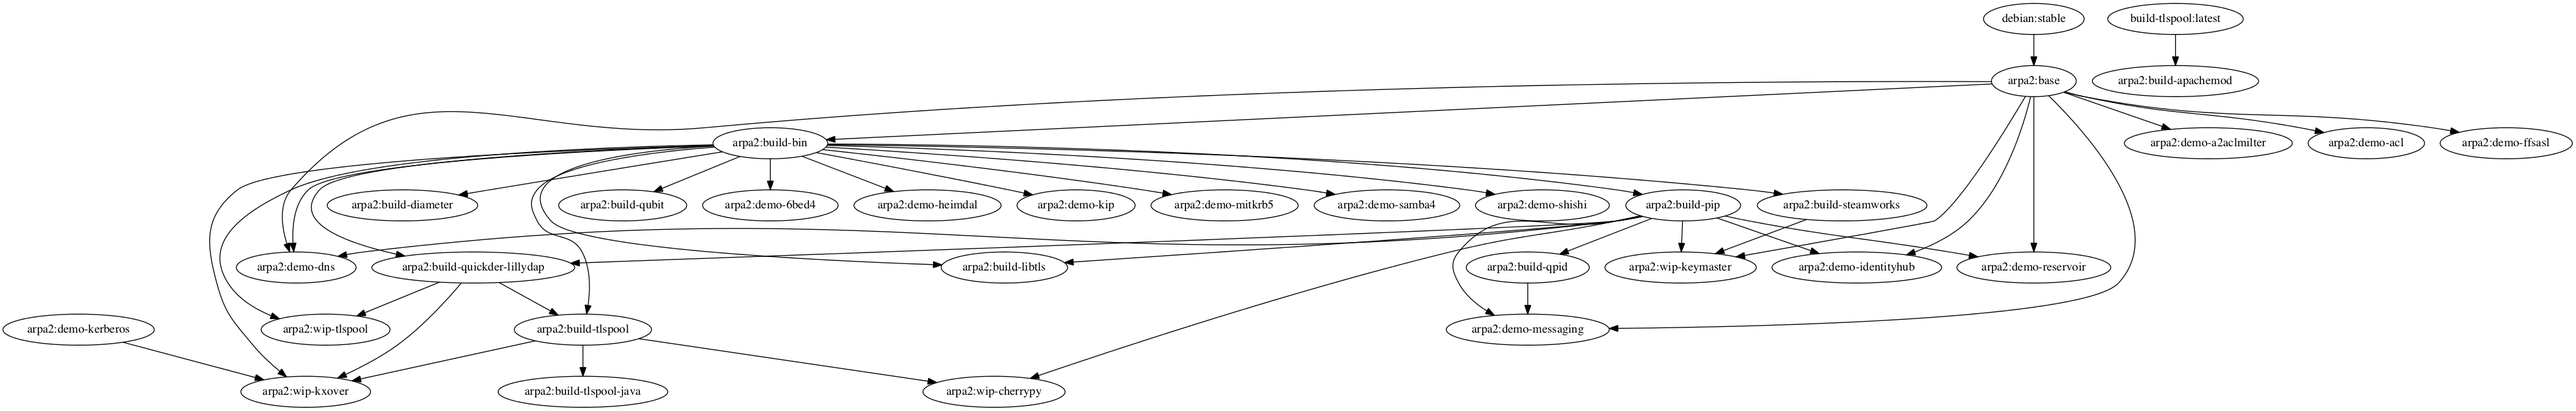
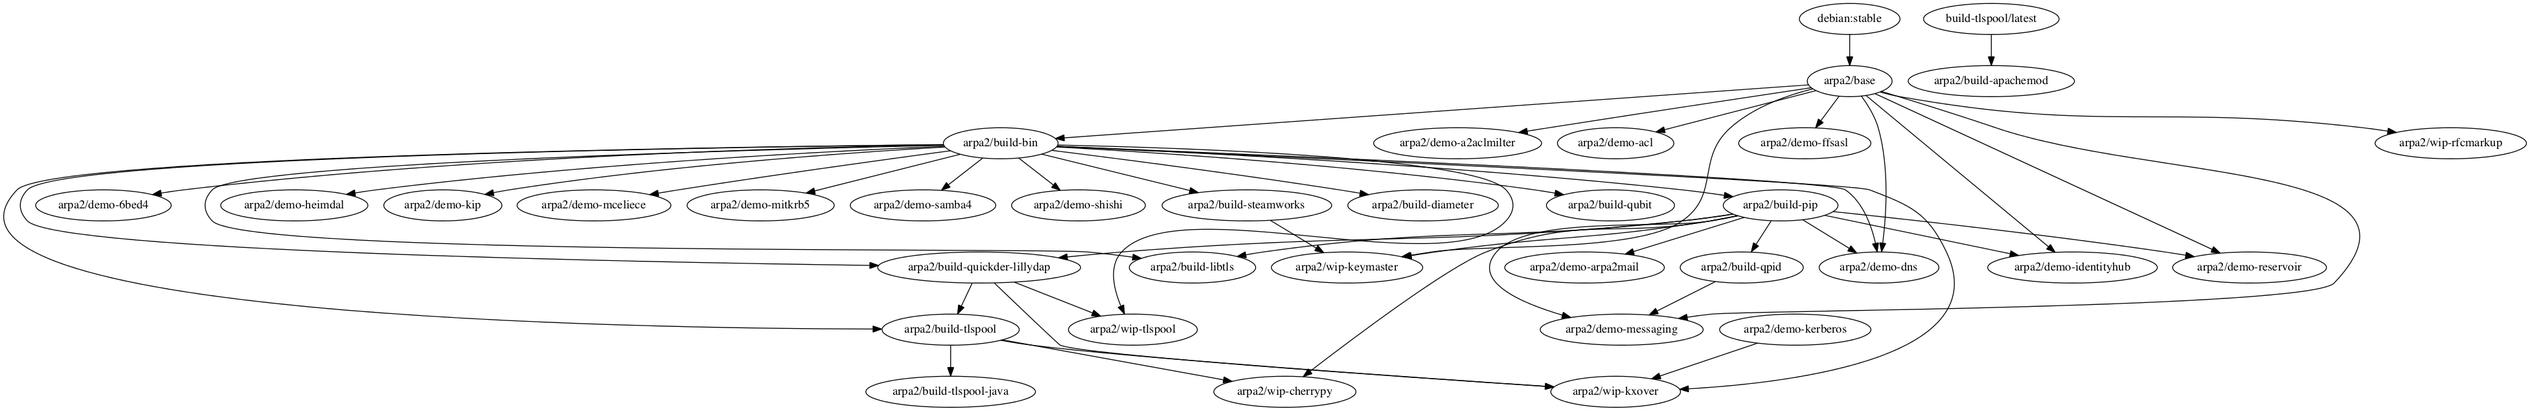
build-bin updated for Docker Hub

diff --git a/base/README.md b/base/README.md
@@ -1,4 +1,4 @@
-# Docker Image arpa2:base
+# Docker Image arpa2/base
 
 > *This is the basic image that we shall use for most
 > or all of the ARPA2 distribution images.*
@@ -30,17 +30,17 @@ The hash code identifies what has just been built.  You can also find it with:
 
 Oops &mdash; forgot to give it a name.  Let's rebuild (and see how these hashes allow for reuse):
 
-    docker build docker-arpa2-base -t arpa2:base
+    docker build docker-arpa2-base -t arpa2/base
 
 If you list the images once more, you will find that the `<none>` entries have been replaced with `arpa2` and `base`.
 
 Docker keeps those hashed images by default, but you can use `docker image rm` or `docker image prune` to cleanup.
 
-## Running Commands in arpa2:base
+## Running Commands in arpa2/base
 
-The `Dockerfile` in `arpa2:base` has a shell as its default command, so you can simply run it (with an interactive terminal) to enter commands:
+The `Dockerfile` in `arpa2/base` has a shell as its default command, so you can simply run it (with an interactive terminal) to enter commands:
 
-    shell$ docker run -it arpa2:base
+    shell$ docker run -it arpa2/base
     root@02fc270bb848:/# hostname
     02fc270bb848
     root@02fc270bb848:/# exit
@@ -50,7 +50,7 @@ Note how the hex code (in fact the hostname) is not the same as the image hash. 
 
 Until you run `exit`, you can view the container in another shell on the host, using `docker container ls`.  Once you quit, the container will be removed.
 
-You can make local changes, for instance to install extra software.  These changes will not end up in the original `arpa2:base` image, but instead in a temporary image layered on top of it.  Try it!
+You can make local changes, for instance to install extra software.  These changes will not end up in the original `arpa2/base` image, but instead in a temporary image layered on top of it.  Try it!
 
 ## Minimal Core OS
 
@@ -79,7 +79,7 @@ Note that it does not make complete sense, but fix it if you can!
 
 ## Support for ARPA2 Shells
 
-There is a generic `arpa2shell` command, which looks through the Python system for modules named `arpa2xxx` that inherit `arpa2cmd.Cmd` into a module-specific `Cmd` class.  These classes are instantiated as sub-shells, into which `arpa2shell` can drop in.  No sub-shells have been included in this release, but images built on top of `arpa2:base` can.  In that case, they can all be addressed from `arpa2shell`.
+There is a generic `arpa2shell` command, which looks through the Python system for modules named `arpa2xxx` that inherit `arpa2cmd.Cmd` into a module-specific `Cmd` class.  These classes are instantiated as sub-shells, into which `arpa2shell` can drop in.  No sub-shells have been included in this release, but images built on top of `arpa2/base` can.  In that case, they can all be addressed from `arpa2shell`.
 
 ## Connecting to a Containers
 
@@ -87,13 +87,13 @@ Not all containers are interactive on a terminal.  They may as well run a comman
 
 Another facility that is useful during deployment, is the ability to mount a file system layer with data into the container's filesystem.  For applications such as a web server, this facilitates dynamic data and limits rebuilds of images to code changes.
 
-## Adding layers atop arpa2:base
+## Adding layers atop arpa2/base
 
-To develop additional layers on top of `arpa2:base`, you can run a container for `arpa2:base` and enter any commands that you think are needed.  Keep note of them in a new
+To develop additional layers on top of `arpa2/base`, you can run a container for `arpa2/base` and enter any commands that you think are needed.  Keep note of them in a new
 [Dockerfile](https://docs.docker.com/engine/userguide/eng-image/dockerfile_best-practices/),
 that adheres to the following pattern:
 
-    FROM arpa2:base
+    FROM arpa2/base
     
     RUN apt-get update && apt-get -y upgrade
     

diff --git a/DOCKER-HUB.MD b/DOCKER-HUB.MD
@@ -1,0 +1,24 @@
+# Automated Builds on Docker Hub
+
+To build these demo's automatically with Docker Hub, we can do the following:
+
+ 1. Login to the [Docker Hub](https://hub.docker.com)
+ 2. (We'll assume you're a member of the ARPA2 team, otherwise ask)
+ 3. Click `Repositories` in the top bar, and the `arpa2` project
+ 4. Click `Create Repository` on the right side
+ 5. Enter, for `arpa2`, a name such as `build-pip` and a brief description
+ 6. Make it publicly visible
+ 7. For Build Settings, connect to GitHub
+ 8. For the project connection, select `arpa2` and `docker-demo`
+ 9. Customise, possibly by entering and editing later so that:
+     - Tag with Source `/^build-pip-latest$/` receives Docker Tag `latest` for Dockerfile `/demo-pip/Dockerfile` or actually just `Dockerfile` relative to `/demo-pip` but that doesn't show up initially.
+     - Tag with Source `/^build-pip-([0-9.]+)$/` receives Docker Tag `{\1}` for Dockerfile `/demo-pip/Dockerfile` or actually just `Dockerfile` relative to `/demo-pip` but that doesn't show up initially.
+10. Click `Create` on the bottom, go to the top for `Builds` and right side for `Configure Automatic Builds` and split the Dockerfile Location `/demo-pip/Dockerfile` into `Dockerfile` and Build Context `/demo-pip` which is the reference for files named in the Dockerfile.  This is not possible in the first go, or so it seems.
+11. Now close with `Save and Build`
+
+After this, we can go to the repository, and test build the example `build-bin`.  When satisfied, we can notify Docker Hub with tags:
+
+```
+docker tag --force build-bin-latest
+docker push --tags --force
+```

diff --git a/demo-identityhub/README.MD b/demo-identityhub/README.MD
@@ -1,4 +1,4 @@
-# README for Docker Image arpa2:identityhub
+# README for Docker Image arpa2/identityhub
 
 > *This is a simple, initial version of the IdentityHub
 > as designed in the InternetWide.org project, and implemented
@@ -42,7 +42,7 @@ at the same level as the `Dockerprep.sh` file.  We do this
 to avoid adding `pip` and its many, many dependencies to
 the runtime.
 
-To build this image on top of the `arpa2:base` image:
+To build this image on top of the `arpa2/base` image:
 
 ```
 docker build -t idhub <THIS-DIRECTORY>
@@ -165,8 +165,8 @@ To update this image, please build it with the public tag and
 push it:
 
 ```
-docker tag idhub arpa2:identityhub
-docker push arpa2:identityhub
+docker tag idhub arpa2/identityhub
+docker push arpa2/identityhub
 ```
 
 Cleaning up is easy in docker, but also necessary because of
@@ -181,8 +181,8 @@ docker image     prune
 
 Apropos [build confusion and small images!](https://docs.docker.com/develop/develop-images/multistage-build/#use-multi-stage-builds) The people over at Docker understood the problem, as one would expect:
 
-  * We can start off building `FROM arpa2:base AS idhub-dev` to collect build image stuff
-  * We restart in the same `Dockerfile` with the target, `FROM arpa2:base AS idhub`
+  * We can start off building `FROM arpa2/base AS idhub-dev` to collect build image stuff
+  * We restart in the same `Dockerfile` with the target, `FROM arpa2/base AS idhub`
   * We can then `COPY --from=idhub-dev /path/in/dev/stage /target/image/location`
 
 A prior phase using `pip` seems the perfect solution then.  It would install a lot of

diff --git a/demo-reservoir/README.MD b/demo-reservoir/README.MD
@@ -1,4 +1,4 @@
-# README for Docker Image arpa2:reservoir
+# README for Docker Image arpa2/reservoir
 
 > *This is a simple, initial version of the ARPA2 Reservoir
 > as designed in the InternetWide.org project, and implemented
@@ -39,7 +39,7 @@ There are many things open for tinkering:
 
 ## Deploy the Image
 
-To build this image on top of the `arpa2:base` image:
+To build this image on top of the `arpa2/base` image:
 
 ```
 docker build -t rv <THIS-DIRECTORY>
@@ -241,8 +241,8 @@ To update this image, please build it with the public tag and
 push it:
 
 ```
-docker tag rv arpa2:reservoir
-docker push arpa2:reservoir
+docker tag rv arpa2/reservoir
+docker push arpa2/reservoir
 ```
 
 Cleaning up is easy in docker, but also necessary because of

diff --git a/README.MD b/README.MD
@@ -40,12 +40,12 @@ actually be tried, at which time it moves to
 `demo-*` -- this may save some disappointments.
 
 A good approach is probably to start off with
-`FROM arpa2:build-xxx` and when it all works, strip away
+`FROM arpa2/build-xxx` and when it all works, strip away
 the unnecessary build environment by switching to
-`FROM arpa2:base` or another runtime base, and
+`FROM arpa2/base` or another runtime base, and
 using `COPY --from=xxx` to copy necessary elements
-from the original `arpa2:build-xxx` that is now
-a preliminary phase `FROM arpa2:build-xxx AS xxx`
+from the original `arpa2/build-xxx` that is now
+a preliminary phase `FROM arpa2/build-xxx AS xxx`
 
 You can create a typescript console "video" with
 

diff --git a/demo-identityhub/SESSION.MD b/demo-identityhub/SESSION.MD
@@ -7,7 +7,7 @@ Run a detached Docker image, assuming you don't want
 to lock your shell to OpenLDAP's output:
 
 ```
-docker run -d --name id0 arpa2:identityhub
+docker run -d --name id0 arpa2/identityhub
 ```
 
 Now start a session in the container you just created:

diff --git a/build-tlspool/README.MD b/build-tlspool/README.MD
@@ -116,7 +116,7 @@ on the server side.
 You probably want one main process,
 
 ```
-docker run -it --name tipi0 arpa2:build-tlspool
+docker run -it --name tipi0 arpa2/build-tlspool
 ```
 
 or, if you want to be able to use `gdb` or `strace`,

diff --git a/wip-tlspool/README.MD b/wip-tlspool/README.MD
@@ -116,7 +116,7 @@ on the server side.
 You probably want one main process,
 
 ```
-docker run -it --name tipi0 arpa2:build-tlspool
+docker run -it --name tipi0 arpa2/build-tlspool
 ```
 
 or, if you want to be able to use `gdb` or `strace`,
